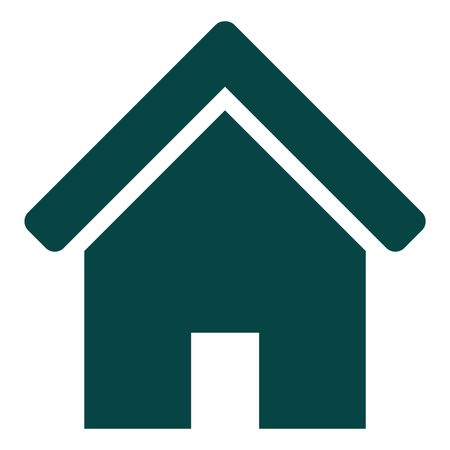
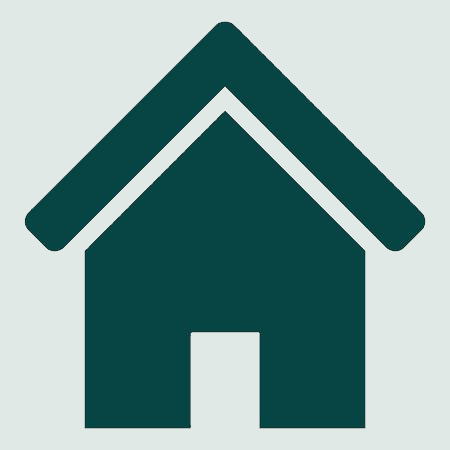
dashboard changes by shreya

diff --git a/client/src/components/dashboard/EditTenantDetails.js b/client/src/components/dashboard/EditTenantDetails.js
@@ -710,17 +710,17 @@ const histroy=useHistory()
               <div className="row ml-1 ">
                 {/* to sel */}
                 <div
-                  className="col-lg-6 col-md-12 col-sm-12 card-new button_Door "
+                  className="col-lg-6 col-md-12 col-sm-12 card-new button_Door bg-white "
                   style={{ border: "transparent", minHeight: "90px" }}
                 >
-                  <span className="h4" style={{ fontFamily: "Serif", color: "#095a4a" }}>Avaiable Door Number :</span>
+                  <span className="h4" style={{ fontFamily: "Serif", color: "#095a4a" }}>Available Door No :</span>
                   {unselectedDno &&
                     unselectedDno.map((DoorNumber, idx) => {
                       return (
                         <button
                           key={idx}
                           type="button"
-                          name="workMistake"
+                          // name="workMistake"
                           className=" btn btn-success doorbtn"
                           // id="savebtn"
                           onClick={() => onSelectChange(DoorNumber)}
@@ -738,19 +738,19 @@ const histroy=useHistory()
                 </div>
                 {/* end to sel */}
                 <div
-                  className=" col-lg-6 col-md-12 card-new"
+                  className=" col-lg-6 col-md-12 card-new bg-white"
                   style={{ border: "transparent", minHeight: "80px" }}
                 >
-                  <span  className="h4" style={{ fontFamily: "Serif", color: "#095a4a" }}>Occupied Door Number : </span>
+                  <span  className="h4" style={{ fontFamily: "Serif", color: "#095a4a" }}>Occupied Door No : </span>
                   {selectedDno &&
                     selectedDno.length > 0 &&
                     selectedDno.map((Doornumber, idx) => {
                       return (
-                        // <p key={idx} className="DoorCover">
+                    
                         <button
                         key={idx}
                           type="button"
-                          name="selectedWorkMistake"
+                          // name="selectedWorkMistake"
                           className="btn  doorbtn"
                           // id="savebtn"
                           onClick={() => onRemoveChange(Doornumber)}
@@ -763,12 +763,7 @@ const histroy=useHistory()
                           >
                             -
                           </span>
-                          {/* <span
-                            className="mx-2 "
-                           
-                          >
-                            X
-                          </span> */}
+                          
                         </button>
                         // </p>
                       );

diff --git a/client/src/styles/CustomisedStyle.css b/client/src/styles/CustomisedStyle.css
@@ -13,9 +13,11 @@
   color: #4d4d4d;
 }
 .img_icon_sizeDashboard {
-  width: 60px;
-  height: 50px;
+  width: 80px;
+  height: 70px;
   text-align: center;
+
+  /* transform: rotateX(150deg); */
 }
 
 .container_align {
@@ -347,7 +349,7 @@ footer.footer .top_top {
   display: flex;
   min-width: 0;
   word-wrap: break-word;
-  background-color: #fff;
+  background-color: #e0e9e5f5;
   background-clip: border-box;
   border: 1px solid rgba(0, 0, 0, 0.125);
   box-shadow: 0 5px 15px rgb(0 0 0 / 15%);
@@ -1888,6 +1890,7 @@ input.visually-hidden:focus-within + label {
   color: #18d4ca;
 }
 .card:hover {
+  /* background-color: #e0e9e5; */
   transform: scale(1.05);
   box-shadow: 10px 10px 15px rgba(0, 0, 0, 0.3);
 }
@@ -1910,15 +1913,19 @@ input.visually-hidden:focus-within + label {
 }
 .card::before {
   transform-origin: left top;
+  
 }
 .card::after {
   transform-origin: right bottom;
+ 
+
 }
 .card:hover::before,
 .card:hover::after,
 .card:focus::before,
 .card:focus::after {
   transform: scale3d(1, 1, 1);
+  
 }
 
 input[type="number"]::-webkit-inner-spin-button,
@@ -2041,10 +2048,11 @@ input[type="number"]::-webkit-outer-spin-button {
   width: 300px;
   height: 250px;
   padding: 10px;
-  /* border: 2px solid #e88504; */
-  /* background: #000000be; */
+  /* background: #e0e9e5f5; */
+  
   margin: 20px;
 }
+
 .second-level-menu > li:hover {
   /* background: #cccccc; */
   background: #e8a317;

diff --git a/client/src/components/dashboard/MainAdminPage.js b/client/src/components/dashboard/MainAdminPage.js
@@ -110,8 +110,9 @@ const MainAdminPage = ({
             <div className="row">
               <div className="col-lg-1"></div>
               <div
-                className="col-lg-5 card h2 text-center pt-5 "
+                className="col-lg-5 card h2 text-center pt-5  "
                 id="shadow-bck"
+                style={{backgroundColor:"#e0e9e5f5"}}
               >
                 <div className="text-center">
                   <img
@@ -129,6 +130,7 @@ const MainAdminPage = ({
               <div
                 className="col-lg-5 card  h2 text-center pt-5"
                 id="shadow-bck"
+                style={{backgroundColor:"#e0e9e5f5"}}
               >
                 <div className="text-center">
                   <img
@@ -153,6 +155,7 @@ const MainAdminPage = ({
               <div
                 className="col-lg-5 card h2 text-center pt-5"
                 id="shadow-bck"
+                style={{backgroundColor:"#e0e9e5f5"}}
               >
                 <div className="text-center">
                   <img
@@ -170,6 +173,7 @@ const MainAdminPage = ({
               <div
                 className="col-lg-5 card h2 text-center pt-5 "
                 id="shadow-bck"
+                style={{backgroundColor:"#e0e9e5f5"}}
               >
                 <div className="text-center">
                   <img

diff --git a/client/src/components/dashboard/AddTenantDetails.js b/client/src/components/dashboard/AddTenantDetails.js
@@ -696,7 +696,7 @@ const AddTenantDetails = ({
 
                       {DnoList &&
                         DnoList.map((DoorNumber, idx) => {
-                          // if(DoorNumber.status==="Avaiable")
+                         
 
                           return (
 
